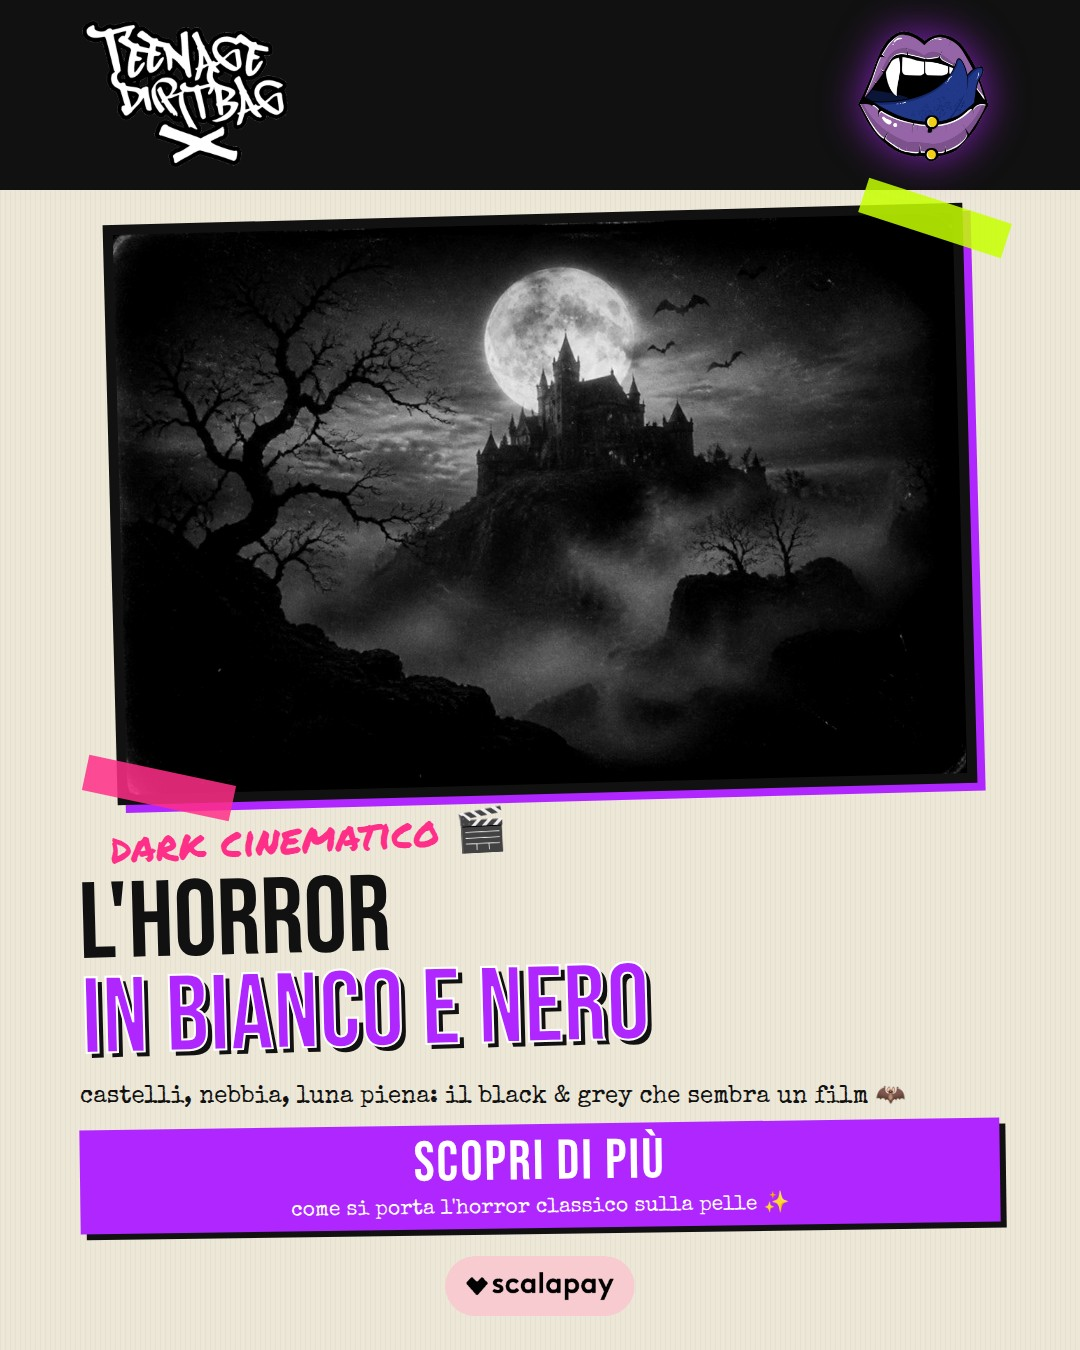
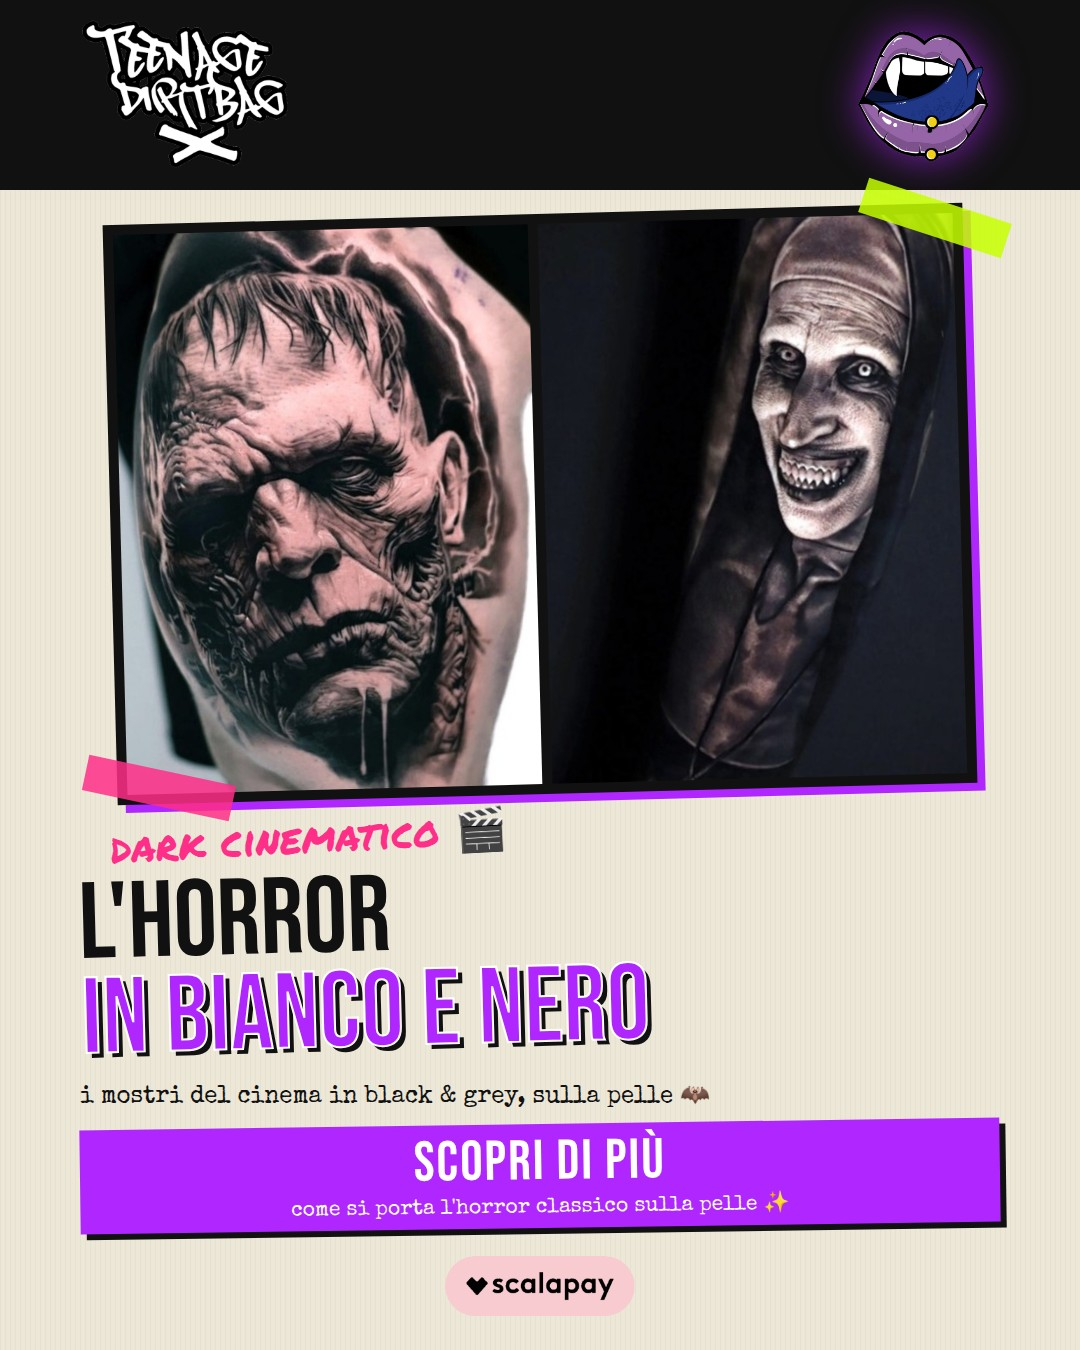
Kit 10/10: foto tatuaggi reali + consiglio di Filippo

Changed region(s): [[0.0917, 0.1556, 0.9167, 0.5911], [0.0611, 0.8089, 0.825, 0.84], [0.0917, 0.1556, 0.1222, 0.1867]]

diff --git a/email/1010.html b/email/1010.html
@@ -12,7 +12,7 @@
 <div style="padding: 22px 32px; background: #111111"><table border="0" cellpadding="0" cellspacing="0" role="presentation" width="100%"><tr><td align="left" style="" valign="middle"><img alt="Teenage Dirtbag" src="https://raw.githubusercontent.com/debbymasini-dev/messenger/kit-assets/lettering.png" style="width: 150px; max-width: 100%; height: auto; display: block; border: 0" width="150"/></td><td align="right" style="" valign="middle"><img alt="Logo bocca" src="https://raw.githubusercontent.com/debbymasini-dev/messenger/kit-assets/bocca.png" style="width: 108px; max-width: 100%; height: auto; display: block; border: 0" width="108"/></td></tr></table></div>
 <div style="padding: 30px 40px 0 40px">
 <div style="background: #111111; padding: 10px; transform: rotate(-1deg); box-shadow: 6px 6px 0 #B026FF">
-<img alt="Castello gotico su una collina sotto la luna piena, nebbia e pipistrelli, in bianco e nero da film horror anni 30" src="https://raw.githubusercontent.com/debbymasini-dev/messenger/kit-assets/email/1010-img1.jpg" style="width: 500px; max-width: 100%; height: auto; display: block; border: 0" width="500"/>
+<div><table align="center" border="0" cellpadding="0" cellspacing="0" role="presentation"><tr><td style="padding: 0 5px" valign="middle"><img alt="Tatuaggio black and grey del mostro di Frankenstein, di Neil Chetcuti" src="https://raw.githubusercontent.com/debbymasini-dev/messenger/kit-assets/email/1010-img1.jpg" style="width: 245px; max-width: 100%; height: auto; display: block; border: 0" width="245"/></td><td style="padding: 0 5px" valign="middle"><img alt="Tatuaggio black and grey di una suora horror, di Kimmie Wesson" src="https://raw.githubusercontent.com/debbymasini-dev/messenger/kit-assets/email/1010-img2.jpg" style="width: 245px; max-width: 100%; height: auto; display: block; border: 0" width="245"/></td></tr></table></div><div style="margin-top: 8px; font-size: 11px; color: #EDE7D8; text-align: center">tattoo: Neil Chetcuti @neilchetcuti · Kimmie Wesson @kimmietattoos</div>
 </div>
 </div>
 <div style="padding: 30px 40px 0 40px">
@@ -27,14 +27,14 @@
 <p style="font-size: 15px; line-height: 1.55; margin-top: 16px"><b style="color: #C6FF00">📐 PENSATO SUL TUO CORPO</b><br/>Avambraccio, polpaccio, schiena: le scene verticali amano le zone lunghe. Lo disegniamo insieme sulla tua anatomia, così l'inquadratura segue il movimento.</p>
 </div>
 <p style="margin: 22px 40px 0 40px; font-size: 15px; line-height: 1.6">Hai un film del cuore, una scena che ti è rimasta addosso? Portala in studio: la trasformiamo in un pezzo che è solo tuo. 🕯</p>
-<div style="margin: 22px 40px 0 40px; padding: 18px 20px; border: 2px solid #111111; background: #ffffff; font-size: 14px; line-height: 1.55; transform: rotate(-0.4deg)"><b style="color: #B026FF">💜 IL CONSIGLIO DI REBECCA</b><br/>Anche il piercing ha il suo lato dark: titanio implant grade nero o anodizzato scuro, anelli sottili e un septum ben scelto chiudono il look da film horror. Passa a trovarmi e scegliamo insieme il gioiello giusto per il tuo stile. 🖤</div>
+<div style="margin: 24px 40px 0 40px; background: #111111; padding: 10px; transform: rotate(0.8deg); box-shadow: 6px 6px 0 #FF2E88"><div><table align="center" border="0" cellpadding="0" cellspacing="0" role="presentation"><tr><td style="padding: 0 5px" valign="middle"><img alt="Tatuaggio black and grey di un vampiro anziano, di Thomas Maffeo" src="https://raw.githubusercontent.com/debbymasini-dev/messenger/kit-assets/email/1010-img3.jpg" style="width: 245px; max-width: 100%; height: auto; display: block; border: 0" width="245"/></td><td style="padding: 0 5px" valign="middle"><img alt="Tatuaggio black and grey di un volto horror in decomposizione, di Paul Acker" src="https://raw.githubusercontent.com/debbymasini-dev/messenger/kit-assets/email/1010-img4.jpg" style="width: 245px; max-width: 100%; height: auto; display: block; border: 0" width="245"/></td></tr></table></div><div style="margin-top: 8px; font-size: 11px; color: #EDE7D8; text-align: center">tattoo: Thomas Maffeo · Paul Acker @paulackertattoo</div></div>
+<div style="margin: 22px 40px 0 40px; padding: 18px 20px; border: 2px solid #111111; background: #ffffff; font-size: 14px; line-height: 1.55; transform: rotate(-0.4deg)"><b style="color: #B026FF">🖤 IL CONSIGLIO DI FILIPPO</b><br/>Nel black &amp; grey il segreto è il contrasto: le zone di pelle lasciate chiare sono la tua luce, ed è lì che il pezzo prende vita. Quando vieni, porta una scena più che un soggetto: un fotogramma ci dice già tutto su luci e ombre. 🎬<br/>👉 seguilo su Instagram: <a href="https://www.instagram.com/sfregio_lttr/" style="color: #B026FF">@sfregio_lttr</a></div>
 <div style="margin: 24px 40px 0 40px; text-align: center; background: #111111; box-shadow: 5px 5px 0 #B026FF; padding: 10px 0; line-height: 0"><img alt="GIF" src="https://raw.githubusercontent.com/debbymasini-dev/messenger/kit-assets/gif/gif-1010.gif" style="width: 450px; max-width: 100%; height: auto; display: inline-block; border: 0" width="450"/></div>
 <div style="margin: 10px 40px 0 40px; text-align: center; font-family: 'Permanent Marker', cursive; font-size: 17px; color: #B026FF">intanto, al castello... 🦇</div>
 <a href="https://wa.me/393314030216" style="margin: 26px 40px 0 40px; background: #B026FF; color: #ffffff; text-decoration: none; box-shadow: 5px 5px 0 #111111; transform: rotate(-0.6deg); text-align: center; display: block; padding: 18px 14px">
 <span style="font-family: 'Bebas Neue', sans-serif; font-size: 38px; letter-spacing: 1px; line-height: 1; display: block">📲 PRENOTA ORA</span>
 <span style="font-size: 14px; display: block; margin-top: 2px">il tuo film comincia qui ✨</span>
 </a>
-<div style="margin: 26px 40px 0 40px; padding: 16px 20px; border-top: 2px solid #111111; border-bottom: 2px solid #111111; font-size: 14px; line-height: 1.55; text-align: center">✍ I tatuaggi di casa portano la firma di <b>Filippo</b>, il nostro resident: seguilo su Instagram — <a href="https://www.instagram.com/sfregio_lttr/" style="color: #B026FF">@sfregio_lttr</a> — per vedere i suoi lavori appena escono. 🖤</div>
 <div style="margin: 26px 40px 0 40px; padding: 22px; background: #000000; border: 2px solid #25D366; text-align: center; color: #ffffff">
 <div style="font-family: 'Bebas Neue', sans-serif; font-size: 30px; letter-spacing: 1px">🎁 GRUPPO TEENAGE VIP</div>
 <div style="font-size: 14px; color: #EDE7D8; margin-top: 10px">SOLO LÌ vengono pubblicate le OFFERTE e i LAST MINUTE</div>
@@ -44,7 +44,7 @@
 <div style="font-size: 16px">🦇 Ci vediamo in studio 💜</div>
 <div style="font-size: 13px; margin-top: 14px"><table align="center" border="0" cellpadding="0" cellspacing="0" role="presentation"><tr><td style="padding: 0 8px; font-size: 13px" valign="middle"><a href="https://www.instagram.com/__teenage_dirtbag__" style="color: #C6FF00">Instagram</a></td><td style="padding: 0 8px; font-size: 13px" valign="middle"><a href="https://www.facebook.com/share/1V3Xd1A6zq/" style="color: #C6FF00">Facebook</a></td><td style="padding: 0 8px; font-size: 13px" valign="middle"><a href="https://www.tiktok.com/@__teenagedirtbag__" style="color: #C6FF00">TikTok</a></td><td style="padding: 0 8px; font-size: 13px" valign="middle"><a href="https://wa.me/393314030216" style="color: #C6FF00">WhatsApp</a></td><td style="padding: 0 8px; font-size: 13px" valign="middle"><a href="mailto:info@teenagedirtbag.it" style="color: #C6FF00">Email</a></td></tr></table></div>
 <img alt="Scalapay - paga a rate" src="https://raw.githubusercontent.com/debbymasini-dev/messenger/kit-assets/scalapay.png" style="width: 170px; max-width: 100%; height: auto; display: inline-block; border: 0; margin-top: 14px" width="170"/>
-<div style="font-size: 12px; text-align: center; margin-top: 14px">📍 Via Giardini 86, Pavullo nel Frignano (MO)<br/>Immagine: elaborazione AI · Ispirazione: Tattoo Life<br/>© Teenage Dirtbag Tattoo Studio · <a href="*|UNSUB|*" style="color: inherit; text-decoration: underline">Annulla iscrizione</a></div>
+<div style="font-size: 12px; text-align: center; margin-top: 14px">📍 Via Giardini 86, Pavullo nel Frignano (MO)<br/>Tatuaggi: Neil Chetcuti, Kimmie Wesson, Thomas Maffeo, Paul Acker · fonte Tattoo Life (tattoolife.com/dark-cinematic-tattoos)<br/>Immagine della GIF: elaborazione AI<br/>© Teenage Dirtbag Tattoo Studio · <a href="*|UNSUB|*" style="color: inherit; text-decoration: underline">Annulla iscrizione</a></div>
 </div>
 </div>
 
